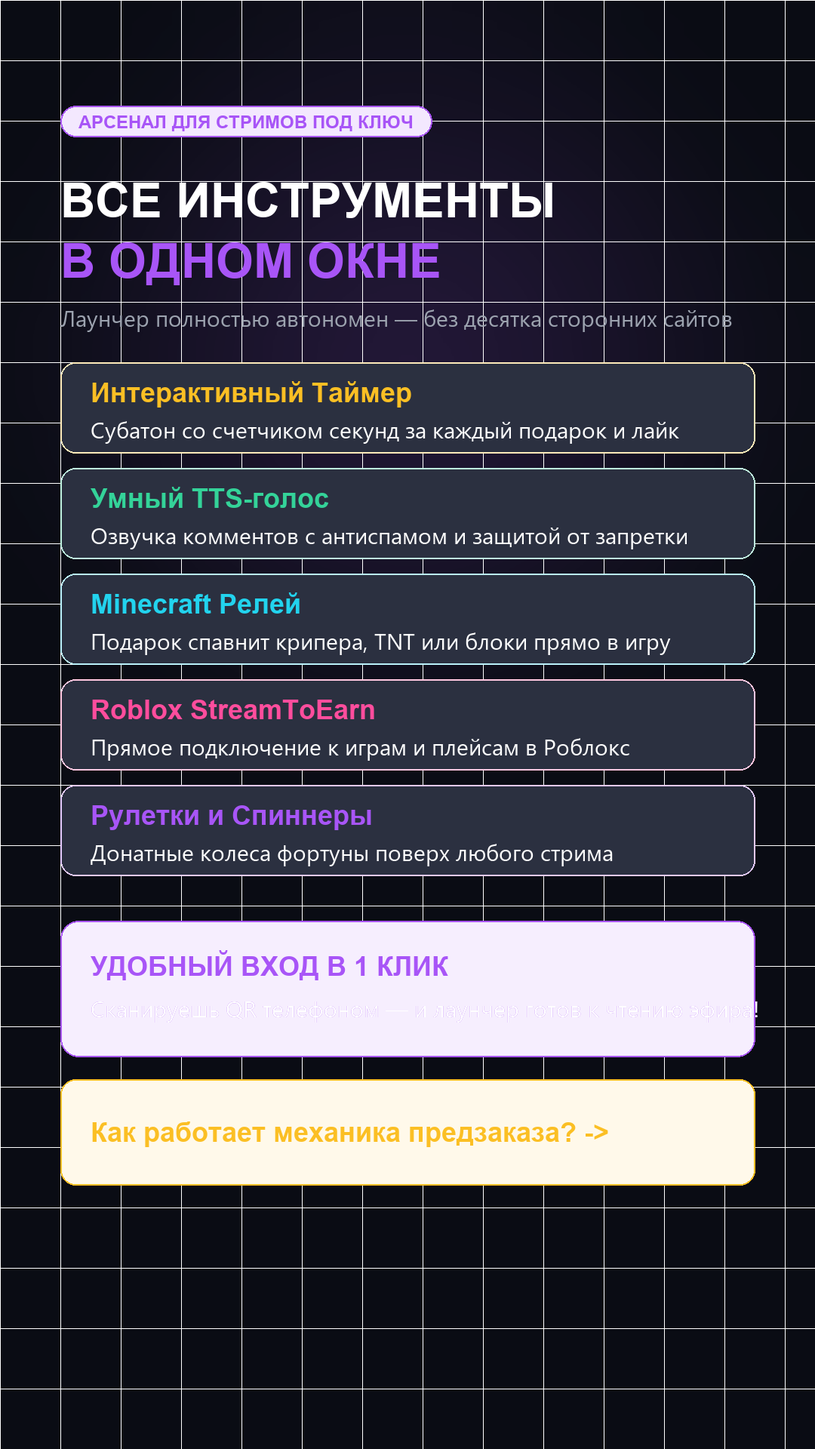
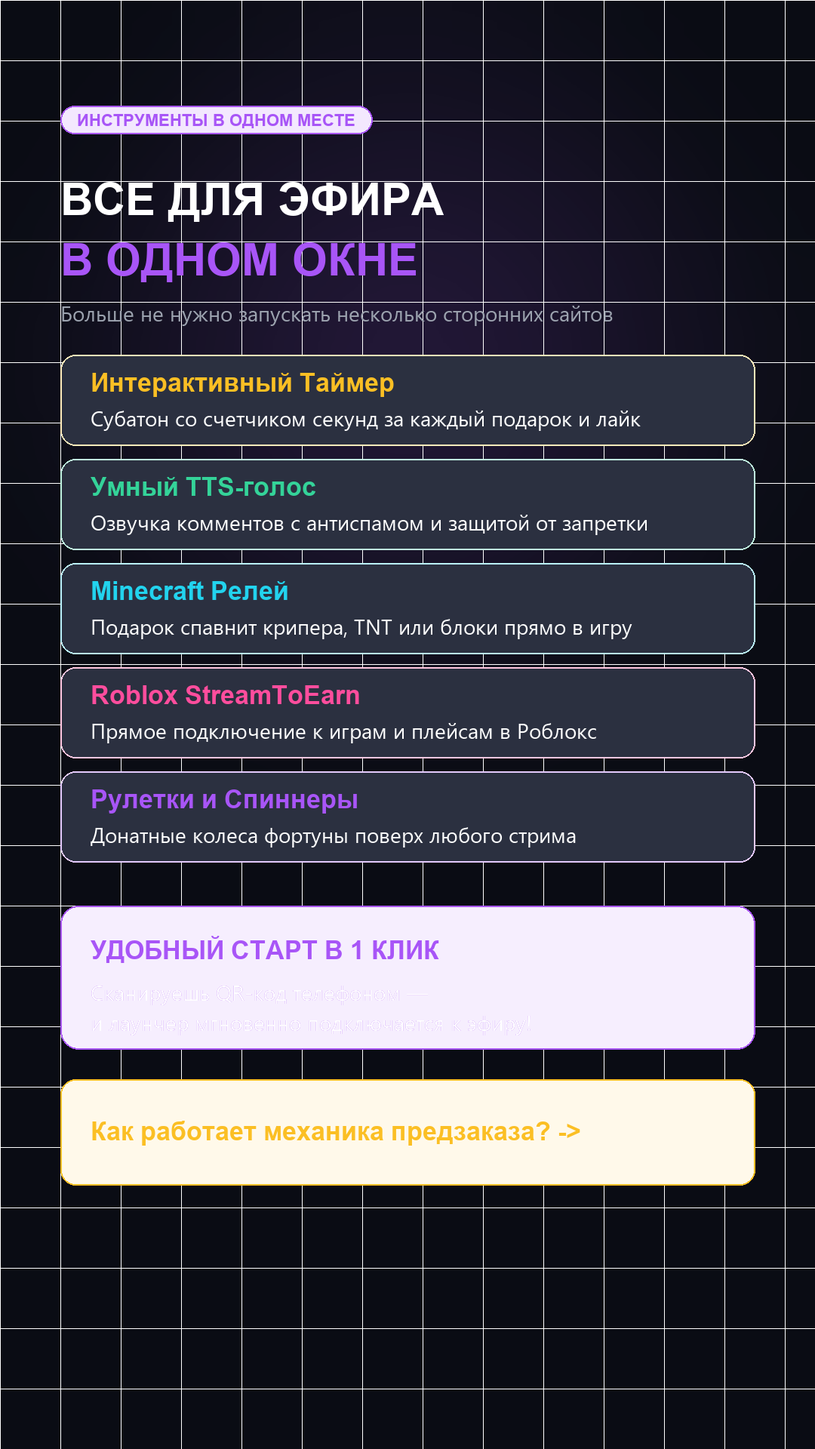
Fix TikTok promo: realistic earnings, strict card bounds, QR code with bio link
1. Remove false claim 'first in CIS' -> position as modern game hub
2. Calibrate income numbers to realistic 1,000-3,500 rub/stream
3. Fix all text-wrapping and card boundaries (no border collisions)
4. Add scannable QR code + bio link prompt + Telegram handle on CTA slide.

Changed region(s): [[0.0611, 0.125, 0.9472, 0.6875], [0.0611, 0.7188, 0.9167, 0.8125], [0.0917, 0.0625, 0.55, 0.0938]]

diff --git a/tools/gen-tiktok-preorder.py b/tools/gen-tiktok-preorder.py
@@ -23,14 +23,13 @@ def get_font(name, size):
     except:
         return ImageFont.load_default()
 
-font_hero = get_font("arialbd.ttf", 64)
-font_title = get_font("arialbd.ttf", 46)
-font_card_head = get_font("arialbd.ttf", 36)
-font_body = get_font("segoeui.ttf", 30)
-font_body_bold = get_font("segoeuib.ttf", 30)
-font_small = get_font("segoeui.ttf", 24)
-font_badge = get_font("arialbd.ttf", 24)
-font_digits = get_font("impact.ttf", 100)
+font_hero = get_font("arialbd.ttf", 60)
+font_title = get_font("arialbd.ttf", 44)
+font_card_head = get_font("arialbd.ttf", 34)
+font_body = get_font("segoeui.ttf", 28)
+font_body_bold = get_font("segoeuib.ttf", 28)
+font_small = get_font("segoeui.ttf", 23)
+font_badge = get_font("arialbd.ttf", 22)
 
 BG_DARK = (10, 12, 20)
 CYAN = (34, 211, 238)
@@ -41,7 +40,7 @@ EMERALD = (52, 211, 153)
 WHITE = (255, 255, 255)
 GRAY = (156, 163, 175)
 CARD_BG = (18, 23, 38, 235)
-CARD_BORDER = (255, 255, 255, 35)
+CARD_BORDER = (255, 255, 255, 32)
 
 def draw_gradient_background(glow_color=(34, 211, 238), glow_y=480):
     img = Image.new("RGBA", (W, H), BG_DARK)
@@ -68,7 +67,7 @@ def draw_badge(draw, text, x, y, accent_color, bg_alpha=35):
     bbox = font_badge.getbbox(text)
     tw = bbox[2] - bbox[0]
     th = bbox[3] - bbox[1]
-    px, py = 24, 10
+    px, py = 22, 9
     card_box = [x, y, x + tw + px * 2, y + th + py * 2]
     draw.rounded_rectangle(card_box, radius=999, fill=(accent_color[0], accent_color[1], accent_color[2], bg_alpha), outline=accent_color, width=2)
     draw.text((x + px, y + py - 2), text, font=font_badge, fill=accent_color)
@@ -77,87 +76,87 @@ def draw_badge(draw, text, x, y, accent_color, bg_alpha=35):
 def draw_card(draw, x, y, w, h, radius=24, border_color=CARD_BORDER, fill_color=CARD_BG):
     draw.rounded_rectangle([x, y, x + w, y + h], radius=radius, fill=fill_color, outline=border_color, width=2)
 
-# ==================== SLIDE 1: ЗНАКОМСТВО + ХУК ====================
+# ==================== SLIDE 1: ЗНАКОМСТВО + ОТКРЫТ ПРЕДЗАКАЗ ====================
 def make_slide1():
     img = draw_gradient_background(glow_color=CYAN, glow_y=420)
     draw = ImageDraw.Draw(img)
     
-    draw_badge(draw, "НОВЫЙ СОФТ ДЛЯ TIKTOK СТРИМОВ", 80, 140, CYAN)
+    draw_badge(draw, "НОВЫЙ СОФТ ДЛЯ СТРИМОВ TIKTOK", 80, 140, CYAN)
     
     if app_icon:
-        icon_resized = app_icon.resize((150, 150), Image.Resampling.LANCZOS)
+        icon_resized = app_icon.resize((140, 140), Image.Resampling.LANCZOS)
         img.paste(icon_resized, (80, 220), icon_resized)
         
-    draw.text((260, 240), "CHLAUNCHER", font=font_hero, fill=WHITE)
-    draw.text((260, 315), "ХАБ ИНТЕРАКТИВНЫХ ИГР", font=font_card_head, fill=CYAN)
+    draw.text((250, 240), "CHLAUNCHER", font=font_hero, fill=WHITE)
+    draw.text((250, 315), "ХАБ ИНТЕРАКТИВНЫХ СТРИМОВ", font=font_card_head, fill=CYAN)
     
-    draw.text((80, 420), "МЫ СОЗДАЛИ", font=font_hero, fill=WHITE)
-    draw.text((80, 500), "ПЕРВЫЙ В СНГ ЛАУНЧЕР", font=font_hero, fill=CYAN)
-    draw.text((80, 580), "ДЛЯ СТРИМОВ В TIKTOK", font=font_hero, fill=PINK)
+    draw.text((80, 410), "УДОБНЫЙ ЛАУНЧЕР ДЛЯ", font=font_hero, fill=WHITE)
+    draw.text((80, 485), "ИНТЕРАКТИВНЫХ ЭФИРОВ", font=font_hero, fill=CYAN)
+    draw.text((80, 565), "Все необходимые инструменты для стримера в одном окне", font=font_body, fill=GRAY)
     
     # What is it Card
-    draw_card(draw, 80, 680, 920, 630, radius=28)
-    draw.text((120, 720), "Что это такое и зачем он нужен:", font=font_card_head, fill=WHITE)
+    draw_card(draw, 80, 640, 920, 670, radius=28)
+    draw.text((120, 680), "Что умеет лаунчер:", font=font_card_head, fill=WHITE)
     
     items = [
-        ("Интерактивные игры на стриме", "Зрители дарят подарки — в игре взрывается TNT или спавнятся мобы", CYAN),
-        ("Умный таймер-субатон", "Подарки и лайки продлевают эфир автоматически в реальном времени", AMBER),
+        ("Интерактивные игры на стриме", "Подарки зрителей взрывают TNT в Minecraft или спавнят мобов в Roblox", CYAN),
+        ("Умный таймер-субатон", "Лайки и подарки продлевают время стрима в реальном времени", AMBER),
         ("Живая озвучка комментариев", "Чтение чата приятным голосом без задержек, с фильтром мата", EMERALD),
-        ("Вход в 1 клик по QR-коду", "Никаких подписок за 15$/мес и ковыряния в чужих скриптах", PINK),
+        ("Вход в 1 клик через QR", "Без сложных настроек, ковыряния в токенах и скриптах", PINK),
     ]
     
-    iy = 790
+    iy = 750
     for title, desc, col in items:
         draw.ellipse([120, iy + 6, 138, iy + 24], fill=col)
         draw.text((155, iy), title, font=font_body_bold, fill=WHITE)
-        draw.text((155, iy + 40), desc, font=font_small, fill=GRAY)
-        iy += 115
+        draw.text((155, iy + 38), desc, font=font_small, fill=GRAY)
+        iy += 125
 
     # Pre-order Announcement Card
-    draw_card(draw, 80, 1340, 920, 260, radius=28, fill_color=(255, 77, 157, 30), border_color=PINK)
-    draw.text((120, 1375), "ОТКРЫТ ОФИЦИАЛЬНЫЙ ПРЕДЗАКАЗ!", font=font_card_head, fill=PINK)
-    draw.text((120, 1430), "Успей забрать лаунчер одним из первых.", font=font_body_bold, fill=WHITE)
-    draw.text((120, 1475), "Участники предзаказа получат софт НА НЕДЕЛЮ РАНЬШЕ!", font=font_body, fill=AMBER)
-    draw.text((120, 1530), "Свайпай дальше — показываем как на этом заработать ->", font=font_small, fill=GRAY)
+    draw_card(draw, 80, 1350, 920, 260, radius=28, fill_color=(255, 77, 157, 28), border_color=PINK)
+    draw.text((120, 1385), "ОТКРЫТ ОФИЦИАЛЬНЫЙ ПРЕДЗАКАЗ!", font=font_card_head, fill=PINK)
+    draw.text((120, 1435), "Успей забрать лаунчер одним из первых.", font=font_body_bold, fill=WHITE)
+    draw.text((120, 1480), "Участники предзаказа получат софт НА НЕДЕЛЮ РАНЬШЕ!", font=font_body, fill=AMBER)
+    draw.text((120, 1535), "Свайпай дальше — показываем заработок ->", font=font_small, fill=GRAY)
     
     return img
 
-# ==================== SLIDE 2: КАК НА ЭТОМ ЗАРАБАТЫВАЮТ ====================
+# ==================== SLIDE 2: РЕАЛЬНЫЙ ЗАРАБОТОК (БЕЗ ПРЕУВЕЛИЧЕНИЙ) ====================
 def make_slide2():
     img = draw_gradient_background(glow_color=EMERALD, glow_y=480)
     draw = ImageDraw.Draw(img)
     
-    draw_badge(draw, "ЗАРАБОТОК В ПРЯМОМ ЭФИРЕ", 80, 140, EMERALD)
+    draw_badge(draw, "МОНЕТИЗАЦИЯ TIKTOK ЭФИРОВ", 80, 140, EMERALD)
     
-    draw.text((80, 230), "ОТ 50 000 ДО", font=font_hero, fill=WHITE)
-    draw.text((80, 310), "300 000 РУБЛЕЙ", font=font_hero, fill=EMERALD)
-    draw.text((80, 400), "Интерактивные стримы приносят в 10 раз больше обычных", font=font_body, fill=GRAY)
+    draw.text((80, 230), "ИНТЕРАКТИВ ПРИНОСИТ", font=font_hero, fill=WHITE)
+    draw.text((80, 310), "В 3-5 РАЗ БОЛЬШЕ", font=font_hero, fill=EMERALD)
+    draw.text((80, 395), "Зрители охотнее донатят, когда напрямую влияют на стрим", font=font_body, fill=GRAY)
     
-    draw_card(draw, 80, 480, 920, 600, radius=28)
-    draw.text((120, 520), "Откуда берутся деньги в эфирах:", font=font_card_head, fill=WHITE)
+    draw_card(draw, 80, 470, 920, 620, radius=28)
+    draw.text((120, 510), "Откуда идет доход на стриме:", font=font_card_head, fill=WHITE)
     
     sources = [
-        ("Подарки за действия в играх", "Зрители тратят монеты, чтобы устроить экшен стримеру", EMERALD),
-        ("Продление эфира (Субатон)", "Хотят продолжения стрима? Каждая роза добавляет секунды", AMBER),
-        ("Платная озвучка чата", "Сообщения с донатами читаются вслух в прямом эфире", CYAN),
-        ("Донат-колесо и рулетки", "Зрители крутят рулетку заданий и челленджей за монеты", PINK),
+        ("Подарки за экшен в игре", "Зрители дарят розы и корги, чтобы запустить триггер в игре", EMERALD),
+        ("Таймер эфира (Субатон)", "Хотят продолжения стрима? Донатят на продление времени", AMBER),
+        ("Платная озвучка чата", "Сообщения с подарками озвучиваются в приоритете", CYAN),
+        ("Рулетки и спиннеры", "Зрители крутят колесо заданий и челленджей за подарки", PINK),
     ]
     
-    sy = 585
+    sy = 575
     for title, desc, col in sources:
         draw.rounded_rectangle([120, sy, 960, sy + 105], radius=16, fill=(26, 34, 52, 220), outline=(255, 255, 255, 18), width=1)
         draw.text((150, sy + 16), title, font=font_body_bold, fill=col)
         draw.text((150, sy + 58), desc, font=font_small, fill=GRAY)
         sy += 125
 
-    draw_card(draw, 80, 1110, 920, 290, radius=24)
-    draw.text((120, 1150), "Сухие цифры заработка:", font=font_card_head, fill=WHITE)
-    draw.text((120, 1210), "- Обычный стрим (разговоры): 100 - 300 руб в час", font=font_body, fill=GRAY)
-    draw.text((120, 1265), "- Интерактивный стрим с играми: 1500 - 5000 руб в час", font=font_body_bold, fill=EMERALD)
-    draw.text((120, 1320), "- Алгоритмы TikTok продвигают стримы с интерактивом!", font=font_body, fill=WHITE)
+    draw_card(draw, 80, 1120, 920, 280, radius=24)
+    draw.text((120, 1160), "Реальное сравнение доходов:", font=font_card_head, fill=WHITE)
+    draw.text((120, 1215), "- Обычный разговорный стрим: 100 - 300 руб за эфир", font=font_body, fill=GRAY)
+    draw.text((120, 1265), "- Стрим с интерактивной игрой: 1 000 - 3 500 руб за эфир", font=font_body_bold, fill=EMERALD)
+    draw.text((120, 1315), "- Интерактив поднимает стрим в рекомендации TikTok!", font=font_body, fill=WHITE)
     
     draw_card(draw, 80, 1430, 920, 140, radius=20, fill_color=(52, 211, 153, 25), border_color=EMERALD)
-    draw.text((120, 1480), "Что дает оформление предзаказа? Смотри дальше ->", font=font_card_head, fill=EMERALD)
+    draw.text((120, 1480), "Что дает предзаказ? Смотри дальше ->", font=font_card_head, fill=EMERALD)
     
     return img
 
@@ -166,11 +165,11 @@ def make_slide3():
     img = draw_gradient_background(glow_color=PURPLE, glow_y=480)
     draw = ImageDraw.Draw(img)
     
-    draw_badge(draw, "АРСЕНАЛ ДЛЯ СТРИМОВ ПОД КЛЮЧ", 80, 140, PURPLE)
+    draw_badge(draw, "ИНСТРУМЕНТЫ В ОДНОМ МЕСТЕ", 80, 140, PURPLE)
     
-    draw.text((80, 230), "ВСЕ ИНСТРУМЕНТЫ", font=font_hero, fill=WHITE)
+    draw.text((80, 230), "ВСЕ ДЛЯ ЭФИРА", font=font_hero, fill=WHITE)
     draw.text((80, 310), "В ОДНОМ ОКНЕ", font=font_hero, fill=PURPLE)
-    draw.text((80, 400), "Лаунчер полностью автономен — без десятка сторонних сайтов", font=font_body, fill=GRAY)
+    draw.text((80, 395), "Больше не нужно запускать несколько сторонних сайтов", font=font_body, fill=GRAY)
     
     features = [
         ("Интерактивный Таймер", "Субатон со счетчиком секунд за каждый подарок и лайк", AMBER),
@@ -180,16 +179,17 @@ def make_slide3():
         ("Рулетки и Спиннеры", "Донатные колеса фортуны поверх любого стрима", PURPLE),
     ]
     
-    fy = 480
+    fy = 470
     for title, desc, col in features:
         draw_card(draw, 80, fy, 920, 120, radius=20, fill_color=(20, 26, 43, 230), border_color=(col[0], col[1], col[2], 80))
-        draw.text((120, fy + 20), title, font=font_card_head, fill=col)
-        draw.text((120, fy + 68), desc, font=font_body, fill=WHITE)
-        fy += 140
+        draw.text((120, fy + 18), title, font=font_card_head, fill=col)
+        draw.text((120, fy + 64), desc, font=font_body, fill=WHITE)
+        fy += 138
         
-    draw_card(draw, 80, 1220, 920, 180, radius=24, fill_color=(168, 85, 247, 25), border_color=PURPLE)
-    draw.text((120, 1260), "УДОБНЫЙ ВХОД В 1 КЛИК", font=font_card_head, fill=PURPLE)
-    draw.text((120, 1315), "Сканируешь QR телефоном — и лаунчер готов к чтению эфира!", font=font_body, fill=WHITE)
+    draw_card(draw, 80, 1200, 920, 190, radius=24, fill_color=(168, 85, 247, 25), border_color=PURPLE)
+    draw.text((120, 1240), "УДОБНЫЙ СТАРТ В 1 КЛИК", font=font_card_head, fill=PURPLE)
+    draw.text((120, 1295), "Сканируешь QR-код телефоном —", font=font_body, fill=WHITE)
+    draw.text((120, 1335), "и лаунчер мгновенно подключается к эфиру!", font=font_body, fill=WHITE)
     
     draw_card(draw, 80, 1430, 920, 140, radius=20, fill_color=(251, 191, 36, 25), border_color=AMBER)
     draw.text((120, 1480), "Как работает механика предзаказа? ->", font=font_card_head, fill=AMBER)
@@ -205,29 +205,28 @@ def make_slide4():
     
     draw.text((80, 230), "КАЖДЫЙ ПРЕДЗАКАЗ", font=font_hero, fill=WHITE)
     draw.text((80, 310), "ПРИБЛИЖАЕТ РЕЛИЗ!", font=font_hero, fill=PINK)
-    draw.text((80, 400), "Софт на финальной стадии — сообщество само ускоряет запуск", font=font_body, fill=GRAY)
+    draw.text((80, 395), "Софт на стадии финализации — сообщество само ускоряет дату", font=font_body, fill=GRAY)
     
-    # Rules Card
-    draw_card(draw, 80, 480, 920, 600, radius=28, fill_color=(20, 26, 44, 240), border_color=PINK)
-    draw.text((120, 520), "Правила предзаказа:", font=font_card_head, fill=WHITE)
+    draw_card(draw, 80, 470, 920, 620, radius=28, fill_color=(20, 26, 44, 240), border_color=PINK)
+    draw.text((120, 510), "Что дает предзаказ:", font=font_card_head, fill=WHITE)
     
     perks = [
-        ("Каждый предзаказ: -2 ЧАСА", "Каждая бронь приближает день релиза для всего комьюнити", PINK),
         ("Доступ ЗА 1 НЕДЕЛЮ до всех", "Ты получишь софт на 7 дней раньше открытого релиза", EMERALD),
+        ("Каждый предзаказ: -2 ЧАСА", "Каждая бронь приближает день релиза для всего комьюнити", PINK),
         ("Пожизненный OG Pass 50%", "Твоя цена заморозится навсегда со скидкой 50%", AMBER),
         ("Старт в пустой нише", "Настроишь стримы и наберешь зрителей до толпы", CYAN),
     ]
     
-    py = 585
+    py = 575
     for title, desc, col in perks:
         draw.rounded_rectangle([120, py, 960, py + 105], radius=16, fill=(26, 34, 52, 220), outline=(255, 255, 255, 18), width=1)
         draw.text((150, py + 16), title, font=font_body_bold, fill=col)
         draw.text((150, py + 58), desc, font=font_small, fill=GRAY)
         py += 125
         
-    draw_card(draw, 80, 1110, 920, 290, radius=24)
-    draw.text((120, 1150), "Лимит участников:", font=font_card_head, fill=WHITE)
-    draw.text((120, 1210), "Всего выделено 500 мест по скидке предзаказа.", font=font_body_bold, fill=AMBER)
+    draw_card(draw, 80, 1120, 920, 280, radius=24)
+    draw.text((120, 1160), "Лимит участников:", font=font_card_head, fill=WHITE)
+    draw.text((120, 1215), "Выделено всего 500 мест по скидке предзаказа.", font=font_body_bold, fill=AMBER)
     draw.text((120, 1265), "После релиза скидок не будет — доступ станет общим.", font=font_body, fill=WHITE)
     draw.text((120, 1315), "Успей забрать лаунчер одним из первых!", font=font_small, fill=GRAY)
     
@@ -238,39 +237,61 @@ def make_slide4():
 
 # ==================== SLIDE 5: CTA (КАК ЗАБРАТЬ ПРЕДЗАКАЗ) ====================
 def make_slide5():
-    img = draw_gradient_background(glow_color=PINK, glow_y=480)
+    img = draw_gradient_background(glow_color=PINK, glow_y=460)
     draw = ImageDraw.Draw(img)
     
     draw_badge(draw, "БРОНИРУЙ МЕСТО В ПРЕДЗАКАЗЕ", 80, 140, PINK)
     
     if app_icon:
-        icon_resized = app_icon.resize((220, 220), Image.Resampling.LANCZOS)
-        img.paste(icon_resized, (W // 2 - 110, 220), icon_resized)
+        icon_resized = app_icon.resize((170, 170), Image.Resampling.LANCZOS)
+        img.paste(icon_resized, (W // 2 - 85, 210), icon_resized)
         
-    draw.text((W // 2 - 240, 480), "CHLAUNCHER", font=font_hero, fill=WHITE)
-    draw.text((W // 2 - 300, 560), "ПРЕДЗАКАЗ ОТКРЫТ", font=font_title, fill=PINK)
-    draw.text((W // 2 - 340, 640), "Получи софт за неделю до релиза и ускори дату", font=font_body, fill=GRAY)
+    draw.text((W // 2 - 240, 420), "CHLAUNCHER", font=font_hero, fill=WHITE)
+    draw.text((W // 2 - 290, 495), "ПРЕДЗАКАЗ ОТКРЫТ", font=font_title, fill=PINK)
+    draw.text((W // 2 - 325, 565), "Получи софт за неделю до релиза и ускори дату", font=font_body, fill=GRAY)
     
-    draw_card(draw, 80, 720, 920, 520, radius=28)
-    draw.text((120, 760), "Как оформить предзаказ за 1 минуту:", font=font_card_head, fill=WHITE)
+    # Steps Card
+    draw_card(draw, 80, 630, 920, 520, radius=28)
+    draw.text((120, 670), "Как оформить предзаказ за 1 минуту:", font=font_card_head, fill=WHITE)
     
     steps = [
-        "1. Переходи по ссылке в шапке профиля TikTok",
-        "2. Заходи в наш официальный Telegram-канал или бота",
+        "1. Переходи по кликабельной ссылке в шапке профиля",
+        "2. Или найди в Telegram нашего бота: @chlnchbot",
         "3. Нажимай «Оформить предзаказ» со скидкой 50%",
         "4. Твой предзаказ ускорит релиз на 2 ЧАСА для всех!",
-        "5. За 1 НЕДЕЛЮ до публичного старта получаешь лаунчер!",
+        "5. За 1 НЕДЕЛЮ до публичного старта получаешь софт!",
     ]
-    sy = 830
+    sy = 735
     for s in steps:
-        is_highlight = "1 НЕДЕЛЮ" in s or "2 ЧАСА" in s or "50%" in s
-        draw.text((120, sy), s, font=font_body_bold if is_highlight else font_body, fill=AMBER if "1 НЕДЕЛЮ" in s else (PINK if "2 ЧАСА" in s else WHITE))
+        is_highlight = "1 НЕДЕЛЮ" in s or "2 ЧАСА" in s or "50%" in s or "@chlnchbot" in s
+        draw.text((120, sy), s, font=font_body_bold if is_highlight else font_body, fill=AMBER if "1 НЕДЕЛЮ" in s else (CYAN if "@chlnchbot" in s else (PINK if "2 ЧАСА" in s else WHITE)))
         sy += 65
         
-    draw_card(draw, 80, 1270, 920, 270, radius=32, fill_color=(255, 77, 157, 45), border_color=PINK)
-    draw.text((140, 1310), "ССЫЛКА НА КАНАЛ И ПРЕДЗАКАЗ:", font=font_badge, fill=PINK)
-    draw.text((140, 1360), "В шапке профиля TikTok", font=font_hero, fill=WHITE)
-    draw.text((140, 1450), "Канал: t.me/+nXUpPl7nOeQ1OWYy", font=font_card_head, fill=CYAN)
+    # Massive CTA & QR Card
+    draw_card(draw, 80, 1180, 920, 420, radius=32, fill_color=(255, 77, 157, 35), border_color=PINK)
+    
+    # Generate QR Code
+    try:
+        import qrcode
+        qr = qrcode.QRCode(box_size=6, border=2)
+        qr.add_data("https://t.me/+nXUpPl7nOeQ1OWYy")
+        qr.make(fit=True)
+        qr_img = qr.make_image(fill_color="black", back_color="white").convert("RGBA")
+        qr_img = qr_img.resize((220, 220), Image.Resampling.LANCZOS)
+        # Paste QR code on the right side
+        img.paste(qr_img, (730, 1260), qr_img)
+        draw.text((740, 1495), "Отсканируй QR", font=font_small, fill=GRAY)
+        draw.text((735, 1525), "или зажми фото", font=font_small, fill=GRAY)
+    except Exception as e:
+        print("QR failed:", e)
+
+    # Left text inside CTA card
+    draw.text((120, 1220), "ССЫЛКА НА КАНАЛ И ПРЕДЗАКАЗ:", font=font_badge, fill=PINK)
+    draw.text((120, 1265), "В шапке профиля", font=font_title, fill=WHITE)
+    draw.text((120, 1315), "нашего TikTok", font=font_title, fill=WHITE)
+    draw.text((120, 1380), "(ссылка в био кликабельна!)", font=font_body_bold, fill=AMBER)
+    draw.text((120, 1450), "Или поиск в Telegram:", font=font_body, fill=GRAY)
+    draw.text((120, 1495), "@chlnchbot", font=font_hero, fill=CYAN)
     
     return img
 
